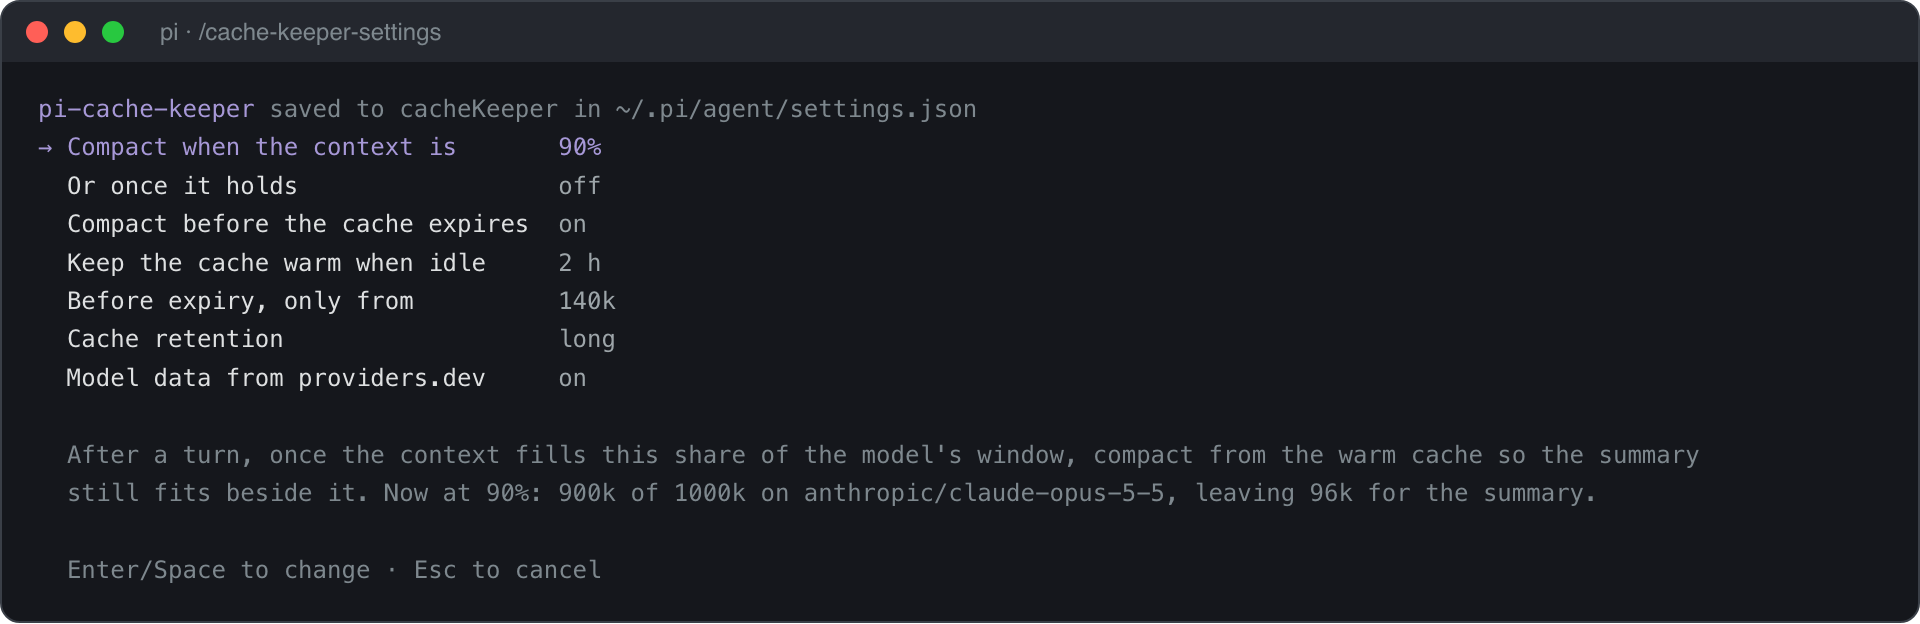
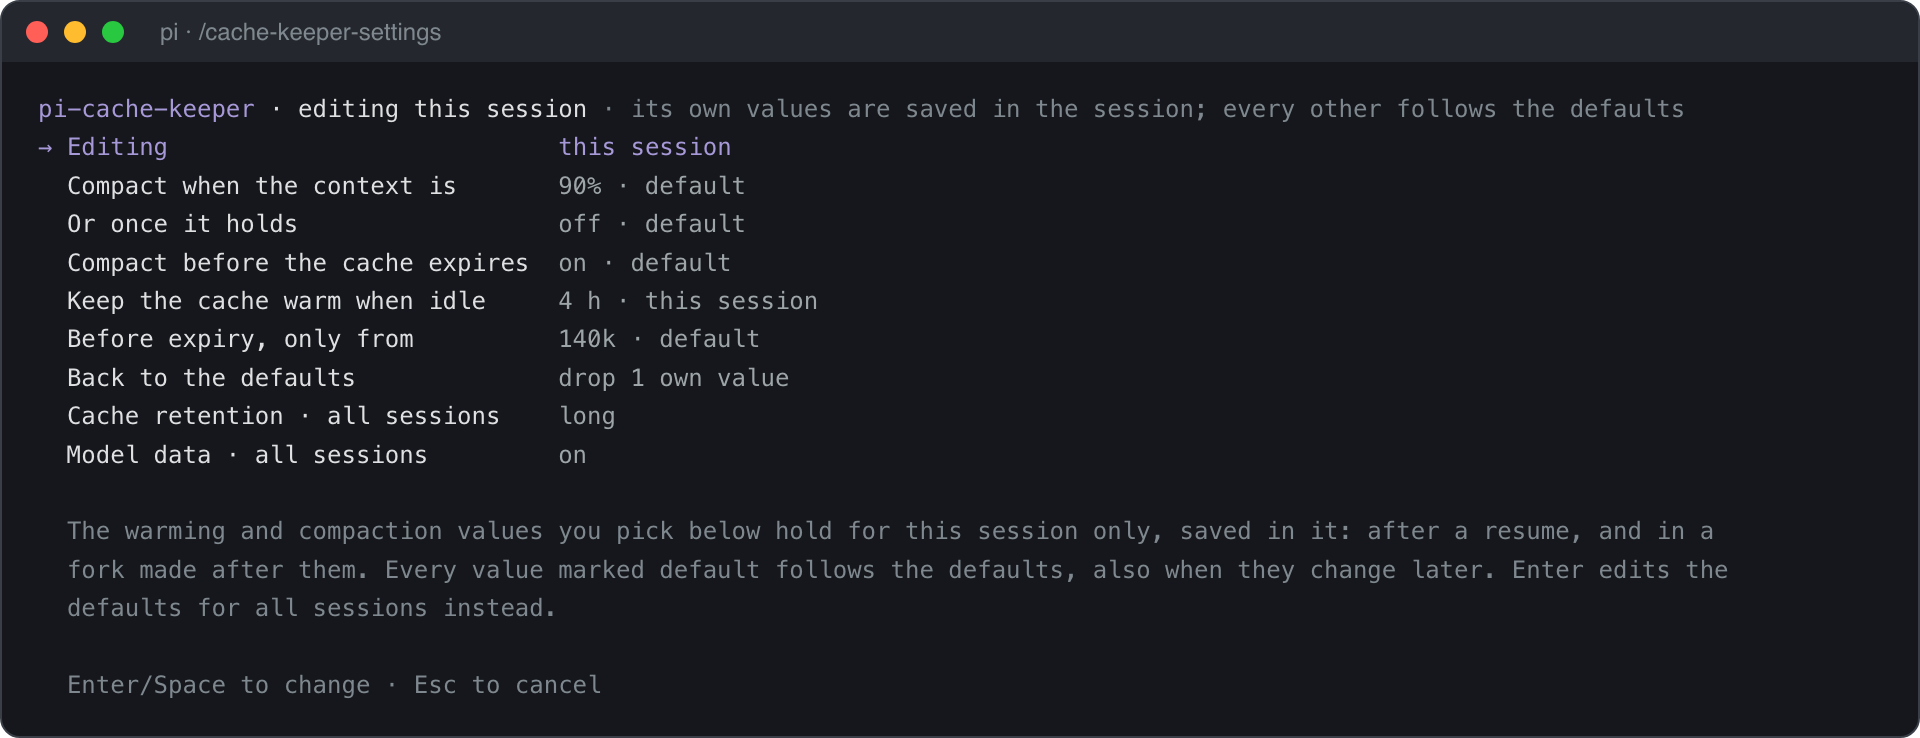
0.8.0: settings per session in the README (Settings, Common tasks, the menu and /cache-keeper figures), the changelog, and npm run check

diff --git a/media/figures.html b/media/figures.html
@@ -103,17 +103,20 @@ cache warm · 59m left · long 1h<span class="dim"> (in use)</span> · <span cla
 
 <figure id="settings-menu">
 <div class="term"><div class="bar"><i></i><i></i><i></i><span>pi · /cache-keeper-settings</span></div>
-<pre><span class="acc">pi-cache-keeper</span> <span class="dim">saved to cacheKeeper in ~/.pi/agent/settings.json</span>
-<span class="acc">→ </span><span class="acc">Compact when the context is     </span>  <span class="acc">90%</span>
-  Or once it holds                  <span class="mut">off</span>
-  Compact before the cache expires  <span class="mut">on</span>
-  Keep the cache warm when idle     <span class="mut">2 h</span>
-  Before expiry, only from          <span class="mut">140k</span>
-  Cache retention                   <span class="mut">long</span>
-  Model data from providers.dev     <span class="mut">on</span>
+<pre><span class="acc">pi-cache-keeper</span> · editing this session <span class="dim">· its own values are saved in the session; every other follows the defaults</span>
+<span class="acc">→ </span><span class="acc">Editing                         </span>  <span class="acc">this session</span>
+  Compact when the context is       <span class="mut">90% · default</span>
+  Or once it holds                  <span class="mut">off · default</span>
+  Compact before the cache expires  <span class="mut">on · default</span>
+  Keep the cache warm when idle     <span class="mut">4 h · this session</span>
+  Before expiry, only from          <span class="mut">140k · default</span>
+  Back to the defaults              <span class="mut">drop 1 own value</span>
+  Cache retention · all sessions    <span class="mut">long</span>
+  Model data · all sessions         <span class="mut">on</span>
 
-<span class="dim">  After a turn, once the context fills this share of the model's window, compact from the warm cache so the summary</span>
-<span class="dim">  still fits beside it. Now at 90%: 900k of 1000k on anthropic/claude-opus-5-5, leaving 96k for the summary.</span>
+<span class="dim">  The warming and compaction values you pick below hold for this session only, saved in it: after a resume, and in a</span>
+<span class="dim">  fork made after them. Every value marked default follows the defaults, also when they change later. Enter edits the</span>
+<span class="dim">  defaults for all sessions instead.</span>
 
 <span class="dim">  Enter/Space to change · Esc to cancel</span></pre></div>
 </figure>
@@ -170,12 +173,12 @@ cache warm · 59m left · long 1h<span class="dim"> (in use)</span> · <span cla
  <span class="dim">next compaction: cached path; last request 4 s ago with 185 messages, 1 since. The request prefix is checked when it</span>
  <span class="dim">runs.</span>
  <span class="dim">when full: at 90%: 900k of 1000k on anthropic/claude-opus-5-5, leaving 96k for the summary</span>
- <span class="dim">keep warm: up to 2 h after Pi goes idle; stops once refreshing has cost as much as one cache miss; so far $0 spent, a</span>
- <span class="dim">miss costs $2.36</span>
+ <span class="dim">keep warm (this session): up to 4 h after Pi goes idle; stops once refreshing has cost as much as one cache miss; so</span>
+ <span class="dim">far $0 spent, a miss costs $2.36</span>
  <span class="dim">before expiry: on, from 140k tokens of context · retention long</span>
  <span class="dim">model data: claude-subscription/claude-opus-5-5: window 1,000,000, short cache 1 h, long cache 1 h</span>
  <span class="dim">(https://providers.dev, checked 180 min ago; /cache-keeper-refresh fetches it again)</span>
- <span class="dim">settings: /cache-keeper-settings</span>
+ <span class="dim">settings: this session's own: keepWarmMinutes 4 h (default 2 h); every other follows the defaults · /cache-keeper-settings</span>
  <span class="dim">log: ~/.pi/agent/cache-keeper.jsonl</span>
  
  <span class="dim">This session:</span>

diff --git a/README.md b/README.md
@@ -26,7 +26,7 @@ Then run `/reload` (Pi loads extensions only at startup or on `/reload`). It nee
 ### Moving from pi-cached-compaction
 
 - Remove pi-cached-compaction first: `pi list` shows the address you installed it from, and `pi remove <that address>` removes it. With both loaded, both would compact and both would show a countdown.
-- Your settings carry over: while `~/.pi/agent/settings.json` has no `cacheKeeper` key, pi-cache-keeper reads the old `cachedCompaction` key as it is. The settings menu saves to `cacheKeeper` (starting from what it read) and leaves `cachedCompaction` alone; from then on `cacheKeeper` is the one that counts.
+- Your settings carry over: while `~/.pi/agent/settings.json` has no `cacheKeeper` key, pi-cache-keeper reads the old `cachedCompaction` key as it is. The settings menu saves the defaults to `cacheKeeper` (starting from what it read) and leaves `cachedCompaction` alone; from then on `cacheKeeper` is the one that counts.
 - The commands are `/cache-keeper` and `/cache-keeper-settings` instead of `/cached-compaction` and `/cached-compaction-settings`.
 - The log is `~/.pi/agent/cache-keeper.jsonl`; the old `cached-compaction.jsonl` is left where it is and not read. Cards from earlier compactions still show in old sessions.
 
@@ -110,8 +110,8 @@ A part that fits again once a larger one has gone comes back, and room left over
 
 | Command | What it does |
 |---|---|
-| `/cache-keeper` | shows the cache right now, whether the next compaction would read it, the settings in effect, the model data in use, and this session's log |
-| `/cache-keeper-settings` | opens the settings menu; outside the TUI it lists the settings |
+| `/cache-keeper` | shows the cache right now, whether the next compaction would read it, the settings in effect (marking the ones this session set for itself), the model data in use, and this session's log |
+| `/cache-keeper-settings` | opens the settings menu on this session's settings, with the defaults for all sessions one step away; outside the TUI it lists both (see [Settings](#settings)) |
 | `/cache-keeper-warm` | starts keeping the cache warm again for the models two refreshes in a row without a hit left to Pi's own warming, and clears every model's count of them; it takes effect at the latest from your next message (an idle period already running whose own warming had not ended is kept warm again at once), sends nothing and doesn't turn keep-warm on; it does not lift a `/cache-keeper-stop` (see [Keeping the cache warm](#keeping-the-cache-warm)) |
 | `/cache-keeper-stop` | stops keeping idle caches warm in every Pi window that uses the same settings, until the next message you send each window: the extension sends no further refresh and Pi's own idle warming is told to stop when it next asks; compacting before expiry still runs; it changes no setting and can't be taken back (see [Stopping it in every window](#stopping-it-in-every-window)) |
 | `/cache-keeper-refresh` | fetches the model data from providers.dev now, puts it into Pi's `models.json`, and says how many models changed and what the current model got (see [Model data](#model-data-from-providersdev)) |
@@ -119,31 +119,40 @@ A part that fits again once a larger one has gone comes back, and room left over
 
 **`/cache-keeper`**:
 
-![The output of /cache-keeper: "pi-cache-keeper · anthropic/claude-opus-5-5. cache: 59m left (lifetime 60 min, declared by the model). next compaction: cached path; last request 4 s ago with 185 messages, 1 since. The request prefix is checked when it runs. when full: at 90%: 900k of 1000k on anthropic/claude-opus-5-5, leaving 96k for the summary. keep warm: up to 2 h after Pi goes idle; stops once refreshing has cost as much as one cache miss; so far $0 spent, a miss costs $2.36. before expiry: on, from 140k tokens of context · retention long. model data: claude-subscription/claude-opus-5-5: window 1,000,000, short cache 1 h, long cache 1 h (https://providers.dev, checked 180 min ago; /cache-keeper-refresh fetches it again). settings: /cache-keeper-settings. log: ~/.pi/agent/cache-keeper.jsonl. This session: 15:05:52 compact when full: cached, 99% of 904k from cache, 5k out, 41.6s, summary 9840 chars. vs Pi's compaction: 75% less, $0.59 instead of ~$2.4 (it sends ~451k tokens, none from cache). 15:06:34 saved, 903k tokens summarized. 16:36:52 kept the cache warm, idle 57 min: 99% of 411k from cache, 1 out, $0.21; $0.21 of $2.36 (one cache miss) spent."](media/status-command.png)
+![The output of /cache-keeper: "pi-cache-keeper · anthropic/claude-opus-5-5. cache: 59m left (lifetime 60 min, declared by the model). next compaction: cached path; last request 4 s ago with 185 messages, 1 since. The request prefix is checked when it runs. when full: at 90%: 900k of 1000k on anthropic/claude-opus-5-5, leaving 96k for the summary. keep warm (this session): up to 4 h after Pi goes idle; stops once refreshing has cost as much as one cache miss; so far $0 spent, a miss costs $2.36. before expiry: on, from 140k tokens of context · retention long. model data: claude-subscription/claude-opus-5-5: window 1,000,000, short cache 1 h, long cache 1 h (https://providers.dev, checked 180 min ago; /cache-keeper-refresh fetches it again). settings: this session's own: keepWarmMinutes 4 h (default 2 h); every other follows the defaults · /cache-keeper-settings. log: ~/.pi/agent/cache-keeper.jsonl. This session: 15:05:52 compact when full: cached, 99% of 904k from cache, 5k out, 41.6s, summary 9840 chars. vs Pi's compaction: 75% less, $0.59 instead of ~$2.4 (it sends ~451k tokens, none from cache). 15:06:34 saved, 903k tokens summarized. 16:36:52 kept the cache warm, idle 57 min: 99% of 411k from cache, 1 out, $0.21; $0.21 of $2.36 (one cache miss) spent."](media/status-command.png)
+
+A line whose value this session set for itself says `(this session)`, and the `settings` line lists those values beside the defaults they replace; without any, it reads `settings: the defaults (this session has none of its own)`.
 
 The `model data` line names the providers.dev entry that describes the model and what it gave. When a guess is in use it says which values are the smaller of the login's and the API key's, and which were not used; when another kind of credential answered, it gives that one's values too.
 
 **`/cache-keeper-settings`**:
 
-![The settings menu: "pi-cache-keeper saved to cacheKeeper in ~/.pi/agent/settings.json". Rows: Compact when the context is 90%, Or once it holds off, Compact before the cache expires on, Keep the cache warm when idle 2 h, Before expiry, only from 140k, Cache retention long, Model data from providers.dev on. Under them, the description of the selected row: "After a turn, once the context fills this share of the model's window, compact from the warm cache so the summary still fits beside it. Now at 90%: 900k of 1000k on anthropic/claude-opus-5-5, leaving 96k for the summary." Then "Enter/Space to change · Esc to cancel".](media/settings-menu.png)
+![The settings menu: "pi-cache-keeper · editing this session · its own values are saved in the session; every other follows the defaults". Rows: Editing: this session; Compact when the context is 90% · default; Or once it holds off · default; Compact before the cache expires on · default; Keep the cache warm when idle 4 h · this session; Before expiry, only from 140k · default; Back to the defaults: drop 1 own value; Cache retention · all sessions long; Model data · all sessions on. Under them, the description of the selected row: "The warming and compaction values you pick below hold for this session only, saved in it: after a resume, and in a fork made after them. Every value marked default follows the defaults, also when they change later. Enter edits the defaults for all sessions instead." Then "Enter/Space to change · Esc to cancel".](media/settings-menu.png)
 
-Each row maps to a setting below. The menu describes the selected row, and for "Compact when the context is" it works out where that falls on the current model.
+Each row maps to a setting below. The menu opens on this session: the first row, "Editing", switches it to the defaults for all sessions and back. The menu describes the selected row, and for "Compact when the context is" it works out where that falls on the current model.
 
 The figures on this page are the extension's own output, from a run of the current code with sample sessions and sample providers.dev values.
 
 ## Settings
 
-Run `/cache-keeper-settings` to change them in a menu; changes are saved to the `cacheKeeper` key in `~/.pi/agent/settings.json` and apply right away. You can also edit that key by hand. When there is no `cacheKeeper` key, the `cachedCompaction` key of pi-cached-compaction is read instead, unchanged. Project settings files don't apply to it, and an unknown key is an error.
+Settings come in two layers:
 
-| Setting | Menu | Default | What it does |
-|---|---|---|---|
-| `compactAtPercent` | Compact when the context is | `90` | after a turn, compact once the context fills this share of the model's window; `0` turns it off |
-| `compactAtTokens` | Or once it holds | `0` | also compact once the context holds this many tokens, on any model, whichever comes first; `0` turns it off |
-| `compactBeforeExpiry` | Compact before the cache expires | `true` | compact 20 s before the cache expires, when idle |
-| `minContextTokens` | Before expiry, only from | `140000` | the smallest context compacted before the cache expires; keeping the cache warm doesn't use it |
-| `keepWarmMinutes` | Keep the cache warm when idle | `0` | keep the cache warm up to this many minutes after Pi goes idle (up to 1440; the menu offers 30 min, 1, 2, 3, 4, 6, 8, 12 and 24 h); it stops once refreshing has cost as much as one cache miss, and while it is on the extension is the only warmer of an idle cache it can refresh; `0` turns it off |
-| `cacheRetention` | Cache retention | `"long"` | ask for the longer cache in interactive sessions (2× writes on Anthropic and Kimi); `"short"` keeps Pi's default |
-| `modelData` | Model data from providers.dev | `true` | read each model's input window, cache lifetimes and prices from providers.dev and put them into Pi's `models.json`; `false` takes them out again |
+- **The defaults**, for every session: the `cacheKeeper` key in `~/.pi/agent/settings.json`. A session that sets nothing of its own uses them, exactly as before 0.8.0. You can also edit that key by hand. When there is no `cacheKeeper` key, the `cachedCompaction` key of pi-cached-compaction is read instead, unchanged. Project settings files don't apply to it, and an unknown key is an error.
+- **A session's own values**, for that session only: `compactAtPercent`, `compactAtTokens`, `compactBeforeExpiry`, `minContextTokens` and `keepWarmMinutes`. Each value a session sets wins there; every other setting follows the defaults, also a default changed later. They are saved in the session itself, as a `cache-keeper-settings` entry (never sent to the model, and never written to `settings.json`), so they hold when you resume the session, and in a fork or clone made after them. The latest such entry on the branch you are on decides: `/tree` to a point before the change, or `/fork` from a message before it, gives the values in force there. In a new session they are saved with its first answer, when Pi writes the session's file.
+
+`cacheRetention` and `modelData` are the same for every session, and a session can't set them: the retention works through `PI_CACHE_RETENTION`, which holds for the whole Pi process, and the model data is written into Pi's `models.json`, which every session reads. The menu marks them `all sessions`.
+
+Run `/cache-keeper-settings` to change them in a menu. It opens on **this session**: each warming and compaction row shows its value and whether it is the session's own (`4 h · this session`) or the default (`2 h · default`); Enter steps through the values, the `default` one dropping the session's own value for that row. "Back to the defaults" drops all of them at once. The session's own values apply right away and are saved in the session when the menu closes. Enter on the first row, "Editing", switches to the **defaults for all sessions**: there, changes are saved to `cacheKeeper` in `~/.pi/agent/settings.json` and apply right away, in this session wherever it has no value of its own. Outside the TUI the command lists both layers: each value with `[default]` or `[this session; default …]`.
+
+| Setting | Menu | Default | Per session | What it does |
+|---|---|---|---|---|
+| `compactAtPercent` | Compact when the context is | `90` | yes | after a turn, compact once the context fills this share of the model's window; `0` turns it off |
+| `compactAtTokens` | Or once it holds | `0` | yes | also compact once the context holds this many tokens, on any model, whichever comes first; `0` turns it off |
+| `compactBeforeExpiry` | Compact before the cache expires | `true` | yes | compact 20 s before the cache expires, when idle |
+| `minContextTokens` | Before expiry, only from | `140000` | yes | the smallest context compacted before the cache expires; keeping the cache warm doesn't use it |
+| `keepWarmMinutes` | Keep the cache warm when idle | `0` | yes | keep the cache warm up to this many minutes after Pi goes idle (up to 1440; the menu offers 30 min, 1, 2, 3, 4, 6, 8, 12 and 24 h); it stops once refreshing has cost as much as one cache miss, and while it is on the extension is the only warmer of an idle cache it can refresh; `0` turns it off |
+| `cacheRetention` | Cache retention | `"long"` | no | ask for the longer cache in interactive sessions (2× writes on Anthropic and Kimi); `"short"` keeps Pi's default |
+| `modelData` | Model data from providers.dev | `true` | no | read each model's input window, cache lifetimes and prices from providers.dev and put them into Pi's `models.json`; `false` takes them out again |
 
 ```json
 {
@@ -153,6 +162,8 @@ Run `/cache-keeper-settings` to change them in a menu; changes are saved to the 
 }
 ```
 
+A session's own `keepWarmMinutes` works as the default does: each idle period of that session is kept warm for up to its value, under the same rules (who warms a period, the budget, stopping), and `/cache-keeper-stop` still stops every window. Changed during an idle period, it takes effect as a change of the default would: switched off, warming ends for the period; switched on, from your next message.
+
 ## Common tasks
 
 | Want | Do |
@@ -160,6 +171,11 @@ Run `/cache-keeper-settings` to change them in a menu; changes are saved to the 
 | See the cache now and this session's compactions | `/cache-keeper` |
 | See why a compaction didn't use the cache | expand its card with ctrl+o |
 | Change the settings from Pi | `/cache-keeper-settings` |
+| Keep this session warm for 4 h, and no other | `/cache-keeper-settings`, then "Keep the cache warm when idle" to `4 h · this session` |
+| Compact one big session earlier than the others | `/cache-keeper-settings`, then "Compact when the context is" (or "Or once it holds") to a value marked `this session` |
+| Change a setting for every session | `/cache-keeper-settings`, Enter on "Editing" (defaults for all sessions), then the row |
+| Put this session back on the defaults | `/cache-keeper-settings`, then "Back to the defaults" |
+| See which settings this session set itself | `/cache-keeper`: the lines marked `(this session)` and the `settings` line |
 | Compact earlier or later on big models | change "Compact when the context is" (`compactAtPercent`) |
 | Keep the context under a fixed size on every model | set "Or once it holds" (`compactAtTokens`) |
 | Stop compacting before the cache expires | `"compactBeforeExpiry": false` in [Settings](#settings) |

diff --git a/CHANGELOG.md b/CHANGELOG.md
@@ -2,6 +2,17 @@
 
 ## [Unreleased]
 
+## [0.8.0] - 2026-11-22
+
+### Added
+- **Settings per session, over the defaults** — A session can now set its own `compactAtPercent`, `compactAtTokens`, `compactBeforeExpiry`, `minContextTokens` and `keepWarmMinutes`. Its own value wins for each key it set; every other key follows the defaults, also a default changed later. The defaults stay where they were (`cacheKeeper` in `~/.pi/agent/settings.json`, same keys, same values), so a session that sets nothing of its own works exactly as in 0.7.0. A session's own values are saved in the session itself, as a `cache-keeper-settings` entry (never sent to the model, never written to `settings.json`, drawn as one dim line in the transcript): they hold after a resume and in a fork or clone made after them, and the latest such entry on the current branch decides, so `/tree` to a point before a change, or `/fork` from a message before it, gives the values in force there. An entry holding anything else (a global-only key, an unknown key, a bad value) is read without it. `cacheRetention` (the process-wide `PI_CACHE_RETENTION`) and `modelData` (Pi's `models.json`) stay the same for every session.
+- **Keep-warm per session** — Each idle period uses its session's own `keepWarmMinutes` where it set one; who warms a period, the budget and stopping are unchanged, and `/cache-keeper-stop` still stops every window. Changed during an idle period, a session's value takes effect as a change of the default does (switched off: warming ends for the period; switched on: from the next message). A default saved in another window no longer reaches a session that set its own value.
+- **`npm run check`** runs the type check and the tests.
+
+### Changed
+- **`/cache-keeper-settings` opens on this session** — Its header says which layer is edited. Each warming and compaction row shows its value and whether it is the session's own (`4 h · this session`) or the default (`2 h · default`); the `default` value drops the session's own value for that row, and "Back to the defaults" drops all of them. The session's values are saved in the session when the menu closes. The first row, "Editing", switches to the defaults for all sessions, edited and saved as before. Cache retention and model data are marked `all sessions`. Outside the TUI, the listing shows both layers: each value with `[default]` or `[this session; default …]`, and a line naming the session's own values.
+- **`/cache-keeper` marks this session's own settings** — `when full`, `keep warm` and `before expiry` say `(this session)` where a value of the session's own decides them, and the `settings` line lists those values beside the defaults they replace (`settings: the defaults (this session has none of its own)` without any). The footer shows the values in effect, as before.
+
 ## [0.7.0] - 2026-11-22
 
 ### Added
